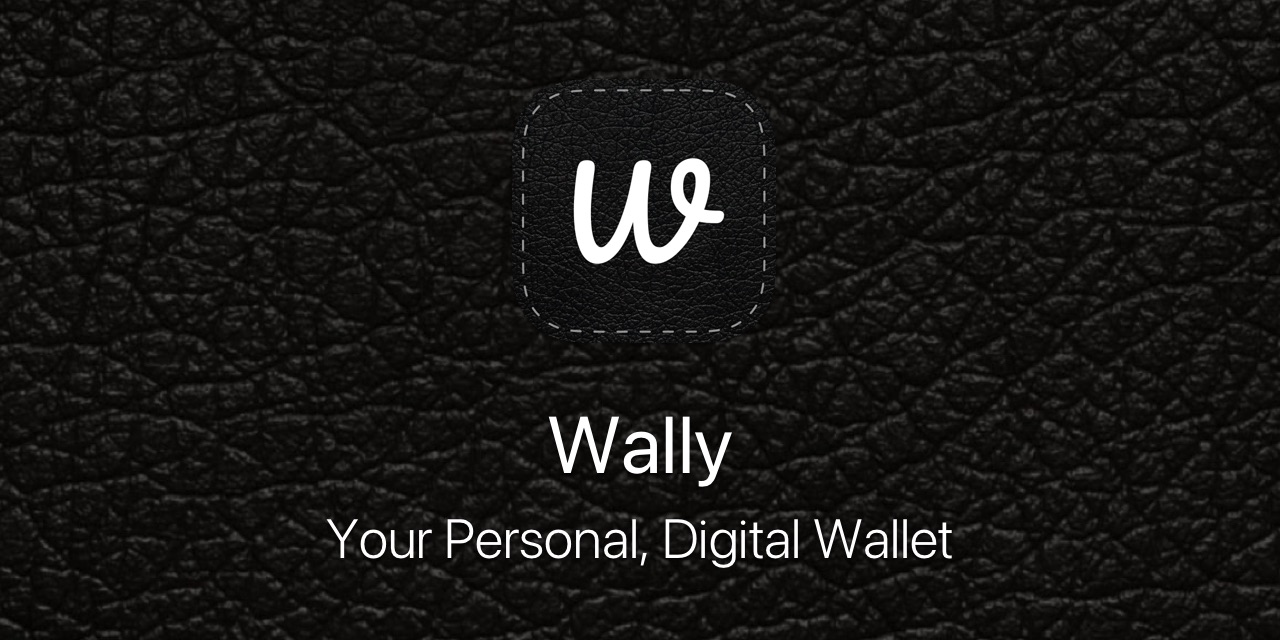
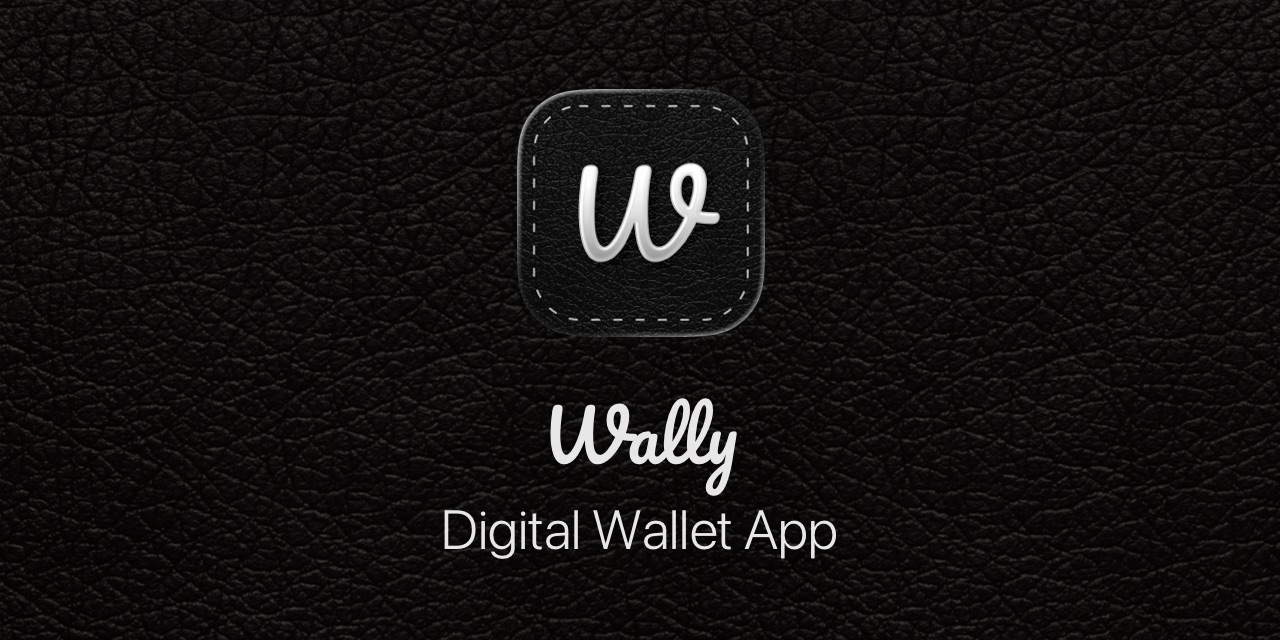
Tweak the new design system

diff --git a/index.html b/index.html
@@ -1,41 +1,41 @@
 ---
-id: home
-layout: default
 title: Home
+layout: plain
 
-hero:
-  image:    /assets/devices.png
-  eyebrow:  Wally
-  title:    Your Personal Digital Wallet
+page-class: "dark"
+image: /assets/headers/website.jpg
 
-description: Wally is a digital wallet for iPhone and iPad. Add things to Wally to keep them safe and available at all times.
+description: Wally is a digital wallet for iPhone and iPad. Add your cards, receipts, etc. to Wally to keep them safe and available at all times.
 ---
 
-<div class="home-content paper">
-  <p>
-    Wally is a digital wallet for your things, like bank, loyalty & ID cards, passports & travel documents, event tickets, business cards, notes, receipts, photos, etc.
-  </p>
-  <p>
-    Wally protects your cards with biometric authentication, and can generate QR codes and barcodes for your cards, call and email your business contacts, etc.
-  </p>
-  <p>
-    Download Wally from the App Store today.
-  </p>
+<section class="hero">
+  <img src="/assets/icon/icon.png" class="glass icon" />
+  <h1>Wally - Digital Wallet</h1>
+  <p>{{ page.description }}</p>
+  <div>
+    <a href="#content" class="cta secondary">Learn More</a>
+    <a href="{{site.urls.appstore}}" class="cta">Download</a>
+  </div>
+</section>
 
-  APP STORE
+<a name="content"></a>
 
-  <section class="slide-in">
-    <h2>Latest news</h2>
-    <div>
-      <a href="/blog">Blog</a> ·
-      <a href="{{ site.urls.bluesky }}">Bluesky</a> ·
-      <a href="{{ site.urls.mastodon }}">Mastodon</a>
-    </div>
-  </section>
+<a name="news"></a>
+<section class="showcase">
+  {% include home-news %}
+</section>
 
-  <section class="slide-in">
-    <div class="grid col2">
-      Blog list
-    </div>
-  </section>
-</div>
+<a name="social"></a>
+<section class="showcase">
+  {% include home-social %}
+</section>
+
+<a name="download"></a>
+<section class="showcase">
+  {% include home-download %}
+</section>
+
+<a name="about"></a>
+<section class="showcase">
+  {% include home-about %}
+</section>

diff --git a/_sass/site/site.scss b/_sass/site/site.scss
@@ -1,0 +1,91 @@
+// Site theme
+//
+// The design system is light by default. Wally overrides it with the leather
+// texture and light-on-dark content that the site has always used.
+
+:root {
+  // Texture
+  --bg-texture: url('/assets/bg/leather.jpg');
+  --bg-texture-overlay: #0005;
+
+  --bg: #000;
+  --header-bg: #000a;
+  --footer-bg: #000a;
+
+  // Foreground
+  --text: #fff;
+  --text-secondary: #ddd;
+  --shadow-color: black;
+
+  // Borders
+  --border: rgba(255, 255, 255, 0.2);
+  --border-glass: rgba(255, 255, 255, 0.33);
+
+  // Tags
+  --tag-hover: #223;
+  --tag-border: #fff5;
+}
+
+h1, header .brand {
+  font-family: "Pacifico";
+  font-weight: 400;
+}
+
+.home {
+  h2, h3 {
+    font-family: "Pacifico";
+    font-weight: 400;
+  }
+}
+
+
+section.hero {
+  background-color: transparent;
+
+  --hero-content-gap: 3.5rem;
+
+  @media (max-width: 700px) {
+    --hero-content-gap: 2.5rem;
+  }
+
+  img.icon {
+    width: 220px;
+    border-radius: 26%;
+
+    @media (max-width: 700px) {
+      width: 100px;
+    }
+  }
+}
+
+header, footer, section {
+  border: none !important;
+}
+
+section.showcase::before {
+  content: none;  // Remove glow
+}
+
+a.cta {
+  background-color: white;
+  color: black !important;
+  border-color: black;
+}
+
+
+// Tags
+
+.tag:not(.pro) {
+  --tag-bg: transparent;
+
+  &:hover,
+  &.active {
+    --tag-bg: var(--tag-hover);
+  }
+}
+
+.tag.releases {
+  background-color: white;
+  color: black;
+  border: none;
+}

diff --git a/_sass/kankoda/variables.scss b/_sass/kankoda/variables.scss
@@ -4,11 +4,21 @@
   --bg-dark: #10111f;
   --bg-light: #FFFFFF;
 
+  --bg-texture: none;
+  --bg-texture-size: 550px;
+  --bg-texture-overlay: #0005;
+
   --bg-blue: rgba(231, 239, 252, 0.7);
   --bg-green: rgba(229, 250, 229, 0.7);
   --bg-orange: rgba(252, 237, 220, 0.7);
   --bg-purple: rgba(235, 229, 249, 0.7);
   --bg-red: rgba(252, 231, 231, 0.7);
+
+  --header-bg: var(--bg);
+  --header-text: var(--text);
+  
+  --footer-bg: var(--bg);
+  --footer-text: var(--text);
 
   --border: rgba(0, 0, 0, 0.1);
   --border-glass: rgba(255,255,255,0.8);
@@ -17,7 +27,7 @@
   --duration-accordion: 0.3s;
   --duration-link: 0.4s;
 
-  --feature-table-even-row-color: #ffffff55;
+  --feature-table-even-row-color: #fff5;
   
   --glass-blue-text: #2d7ecf;
   --glass-green-text: #3d8f66;
@@ -58,8 +68,12 @@
   --shadow-default: 0 4px 24px rgba(0,0,0,0.12);
 
   --text: var(--text-light);
-  --text-dark: #FFFFFFDD;
-  --text-light: #000000DD;
+  --text-secondary: var(--text-light-secondary);
+
+  --text-dark: #FFFD;
+  --text-dark-secondary: #FFFFFFAA;
+  --text-light: #000D;
+  --text-light-secondary: #000A;
 
   --wrapper-width: 900px;
   --wrapper-width-wide: 1250px;

diff --git a/_sass/kankoda/styles/header.scss b/_sass/kankoda/styles/header.scss
@@ -15,12 +15,12 @@ header[role="banner"] {
 
   // When scrolled, add background and shadow
   &.scrolled {
-    background-color: var(--bg);
+    background-color: var(--header-bg);
     border-bottom: solid 1px var(--border);
   }
 
   a {
-    color: var(--text);
+    color: var(--header-text);
   }
 
   .wrapper {
@@ -70,7 +70,7 @@ header[role="banner"] {
     border: none;
     cursor: pointer;
     padding: 0.5rem;
-    color: var(--text);
+    color: var(--header-text);
     margin-left: auto;
 
     @media (max-width: 700px) {
@@ -88,7 +88,7 @@ header[role="banner"] {
         position: absolute;
         width: 100%;
         height: 2px;
-        background-color: var(--text);
+        background-color: var(--header-text);
         transition: all 0.3s ease;
 
         &:nth-child(1) {
@@ -132,7 +132,7 @@ header[role="banner"] {
       top: 100%;
       left: 0;
       right: 0;
-      background-color: var(--bg);
+      background-color: var(--header-bg);
       flex-direction: column;
       padding: 1rem 2rem;
       box-shadow: 0 4px 8px rgba(0, 0, 0, 0.1);

diff --git a/_sass/kankoda/styles/footer.scss b/_sass/kankoda/styles/footer.scss
@@ -3,7 +3,8 @@ footer {
   z-index: 1;
   font-size: 0.85em;
   padding: 2rem 0;
-  background-color: var(--bg);
+  background-color: var(--footer-bg);
+  color: var(--footer-text);
   border-top: 1px solid var(--border);
 
   .row {
@@ -82,7 +83,7 @@ footer {
     }
 
     a {
-      color: var(--text);
+      color: var(--footer-text);
       text-decoration: none;
       opacity: var(--opacity-secondary);
       transition: opacity var(--duration-link) ease;
@@ -103,7 +104,7 @@ footer {
 
     a {
       opacity: 1;
-      color: var(--text);
+      color: var(--footer-text);
       text-decoration: none;
 
       &:hover {

diff --git a/_sass/kankoda/styles/global.scss b/_sass/kankoda/styles/global.scss
@@ -3,6 +3,14 @@ html {
   scroll-behavior: smooth;
 }
 
+html,
+body {
+  background:
+    linear-gradient(var(--bg-texture-overlay), var(--bg-texture-overlay)),
+    var(--bg-texture);
+  background-size: var(--bg-texture-size);
+}
+
 body {
   background-color: var(--bg);
   color: var(--text);

diff --git a/_sass/kankoda/styles/blog.scss b/_sass/kankoda/styles/blog.scss
@@ -43,7 +43,7 @@
     flex-wrap: nowrap;
     gap: 0.75rem;
     margin-bottom: 1.25rem;
-    color: rgba(0, 0, 0, var(--opacity-secondary));
+    color: var(--text-secondary);
   }
 
   &-date,

diff --git a/404.html b/404.html
@@ -1,5 +1,5 @@
 ---
-layout: default
+layout: page
 ---
 
 <style type="text/css" media="screen">

diff --git a/collections/_posts/2026/2026-08-20-wally-7.md b/collections/_posts/2026/2026-08-20-wally-7.md
@@ -11,8 +11,6 @@ version: Wally 7.0
 
 {{page.version}} is out, with a brand new item store, that syncs over iCloud to all your devices, and that lets you mix items and create custom item groups. Plus you can now zoom in on details.
 
-![Blog post header]({{page.image}})
-
 
 ## New Data Store
 

diff --git a/pages/download.md b/pages/download.md
@@ -1,5 +1,5 @@
 ---
-layout: default
+layout: page
 title: Download
 permalink: /download
 
